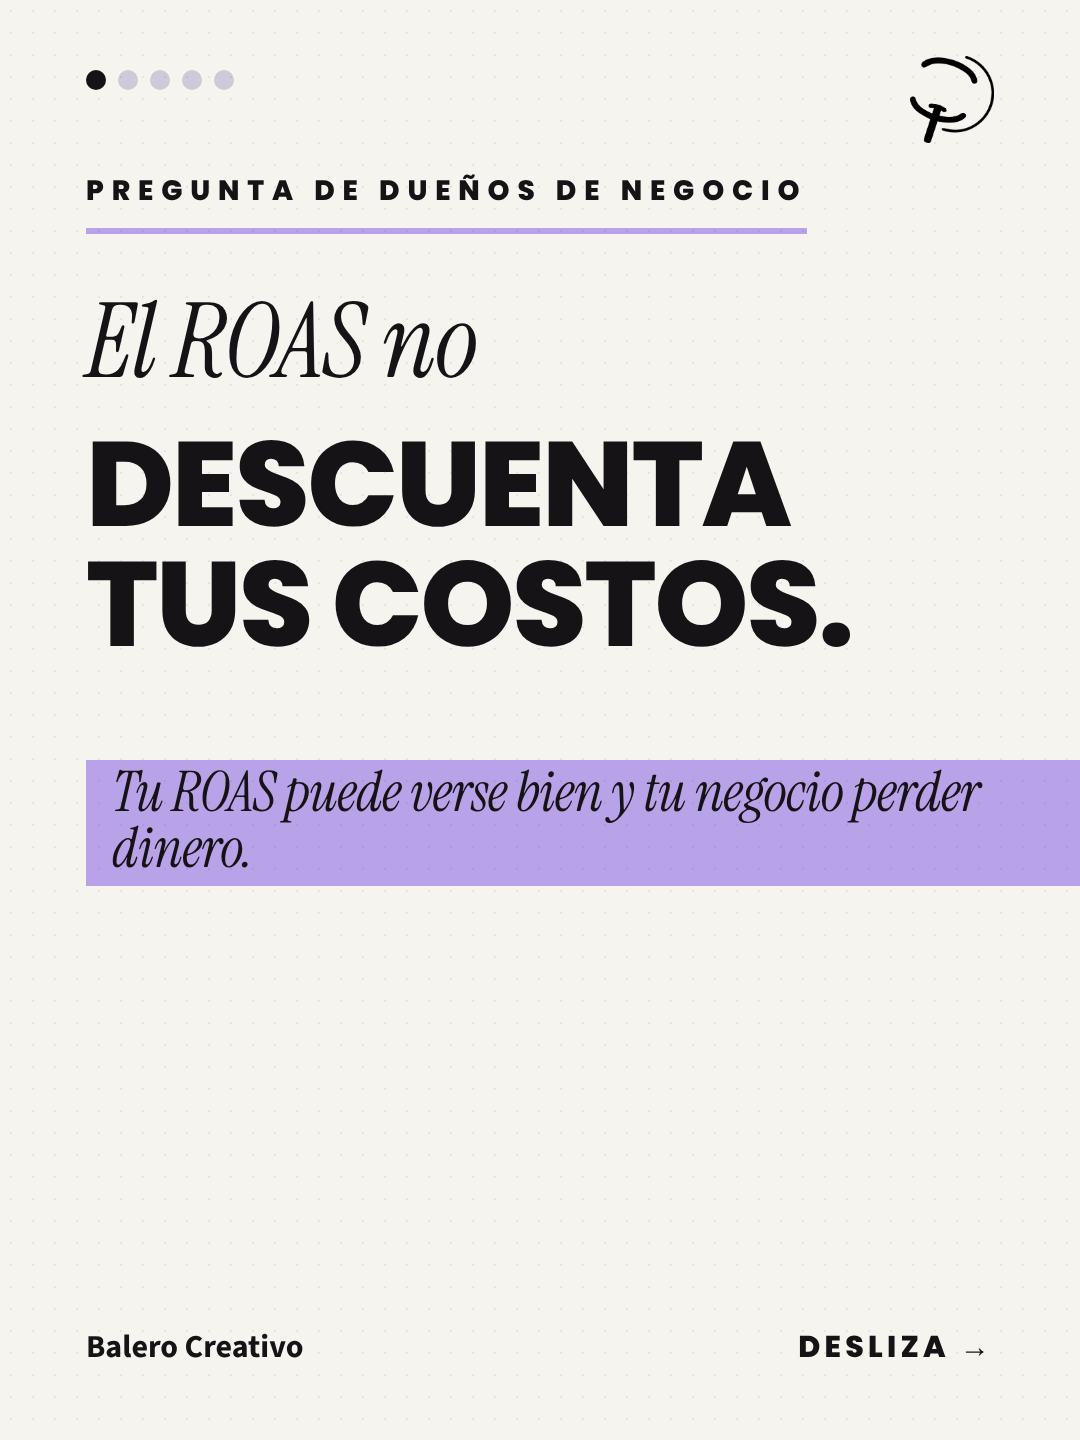
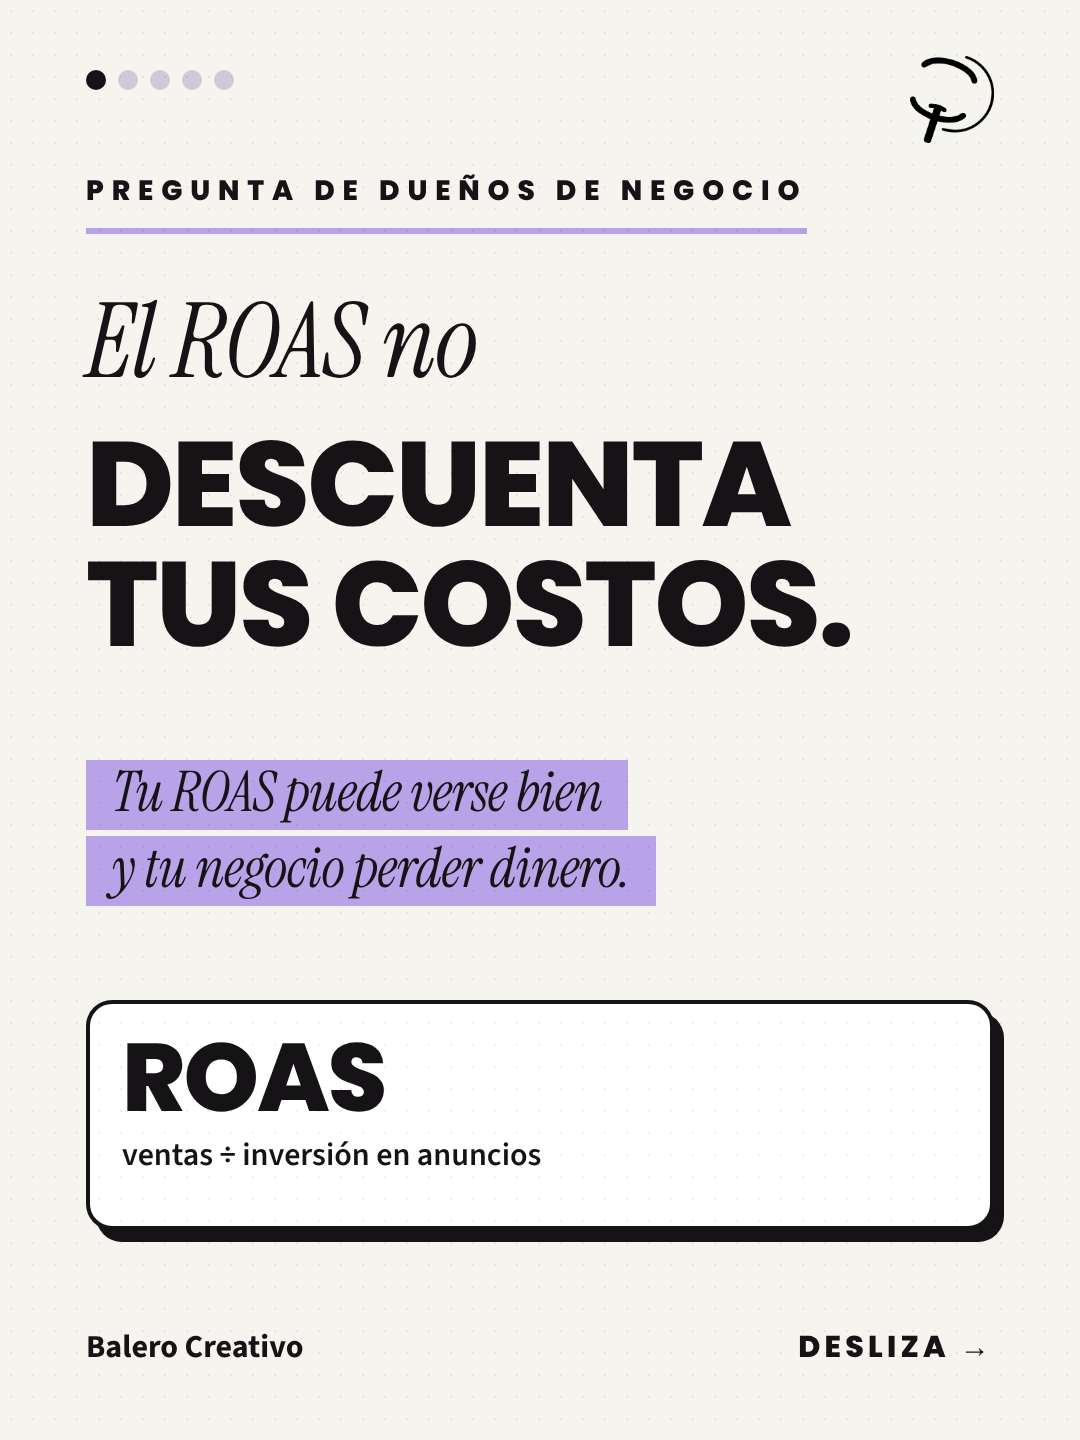
ROAS: portada con subtítulo dentro del margen y tarjeta de la fórmula
Claude-Session: https://claude.ai/code/session_01Bq7ZC7FDz5LcdZBgNXTuBm

Changed region(s): [[0.0611, 0.5, 1.0, 0.6562], [0.0611, 0.6875, 0.4889, 0.8438], [0.0917, 0.6875, 0.9472, 0.875]]

diff --git a/clientes/balero/diseno/2026-11/estilo-editorial/semana/roasig.html b/clientes/balero/diseno/2026-11/estilo-editorial/semana/roasig.html
@@ -60,4 +60,4 @@ body{background:#888}
 .meter{position:absolute;left:86px;right:86px;background:#fff;border:4px solid #151316;border-radius:26px;box-shadow:10px 12px 0 #151316;overflow:hidden}
 
 .bigy{position:absolute;left:86px;font:800 330px/.9 Poppins;background:#FFD23F;padding:10px 30px 24px;letter-spacing:-.04em}
-</style></head><body><div class="s" id="s1"><div class="dots"><i style="background:#151316"></i><i style="background:#cfc9dc"></i><i style="background:#cfc9dc"></i><i style="background:#cfc9dc"></i><i style="background:#cfc9dc"></i></div><img class="logo" src="/home/user/balero/.claude/skills/balero-imagenes/assets/logo-balero.png"><div class="kick" style="top:170px">Pregunta de dueños de negocio</div><div class="serif" style="position:absolute;left:86px;top:290px;font-size:104px;line-height:1">El ROAS no</div><div class="big" style="top:420px;font-size:120px;line-height:1.08">DESCUENTA</div><div class="big" style="top:540px;font-size:120px;line-height:1.08">TUS COSTOS.</div><div class="serif" style="position:absolute;left:86px;top:760px;font-size:56px;line-height:1"><span class="hl">Tu ROAS puede verse bien y tu negocio perder dinero.</span></div><div class="foot"><span>Balero Creativo</span></div><div style="position:absolute;right:86px;bottom:70px;font:800 30px Poppins;letter-spacing:.14em">DESLIZA →</div></div><div class="s" id="s2"><div class="dots"><i style="background:#cfc9dc"></i><i style="background:#151316"></i><i style="background:#cfc9dc"></i><i style="background:#cfc9dc"></i><i style="background:#cfc9dc"></i></div><img class="logo" src="/home/user/balero/.claude/skills/balero-imagenes/assets/logo-balero.png"><div class="chip">QUÉ MIDE</div><div class="t" style="top:290px;font-size:100px">Lo que regresa<br>por cada <span class="serif" style="font-size:1.25em;text-transform:none;font-weight:400;background:#FFD23F;padding:0 18px">peso.</span></div><div class="body" style="top:610px;width:880px">El ROAS es lo que vendes dividido entre lo que inviertes en anuncios.</div><div class="stat" style="left:86px;top:800px;width:420px;height:300px;background:#fff"><b style="font-size:96px">$1</b><span>invertido en anuncios</span></div><div class="stat" style="left:574px;top:800px;width:420px;height:300px;background:#B9A3E8"><b style="font-size:96px">$5</b><span>en ventas</span></div><div class="serif" style="position:absolute;left:86px;top:1180px;font-size:70px;line-height:1">Eso es un ROAS de 5.</div><div class="foot"><span>Balero Creativo</span></div><div style="position:absolute;right:86px;bottom:70px;font:700 30px 'Source Sans Pro';color:#3d3a42;text-align:right;max-width:640px">Ejemplo ilustrativo</div></div><div class="s" id="s3"><div class="dots"><i style="background:#cfc9dc"></i><i style="background:#cfc9dc"></i><i style="background:#151316"></i><i style="background:#cfc9dc"></i><i style="background:#cfc9dc"></i></div><img class="logo" src="/home/user/balero/.claude/skills/balero-imagenes/assets/logo-balero.png"><div class="chip">LO QUE NO INCLUYE</div><div class="t" style="top:290px;font-size:100px">El ROAS no ve<br>tus <span class="serif" style="font-size:1.25em;text-transform:none;font-weight:400;background:#FFD23F;padding:0 18px">costos.</span></div><div class="body" style="top:610px;width:880px">No descuenta el producto, el envío, las comisiones ni tu tiempo.</div><div class="cmp bad" style="top:815px;height:190px"><div class="m">✗</div><div><small>NO INCLUYE</small>Producto, envío, comisiones y tu tiempo</div></div><div class="cmp good" style="top:1025px;height:190px"><div class="m">✓</div><div><small>SÍ TE DICE</small>Cuánto regresa cada peso en anuncios</div></div><div class="foot"><span>Balero Creativo</span></div></div><div class="s" id="s4"><div class="dots"><i style="background:#cfc9dc"></i><i style="background:#cfc9dc"></i><i style="background:#cfc9dc"></i><i style="background:#151316"></i><i style="background:#cfc9dc"></i></div><img class="logo" src="/home/user/balero/.claude/skills/balero-imagenes/assets/logo-balero.png"><div class="chip">LO QUE SÍ DICE</div><div class="t" style="top:290px;font-size:100px">Pagar el anuncio<br>no es <span class="serif" style="font-size:1.25em;text-transform:none;font-weight:400;background:#FFD23F;padding:0 18px">ganar.</span></div><div class="body" style="top:610px;width:880px">El ROAS compara campañas entre sí. Para saber si ganas, calcula cuánto te queda por venta.</div><div class="serif" style="position:absolute;left:86px;top:1150px;font-size:56px;line-height:1">Calcula tu margen antes de subir el presupuesto.</div><div class="foot"><span>Balero Creativo</span></div></div><div class="s" id="s5"><div class="dots"><i style="background:#cfc9dc"></i><i style="background:#cfc9dc"></i><i style="background:#cfc9dc"></i><i style="background:#cfc9dc"></i><i style="background:#151316"></i></div><img class="logo" src="/home/user/balero/.claude/skills/balero-imagenes/assets/logo-balero.png"><div class="serif" style="position:absolute;left:86px;top:280px;font-size:96px;line-height:1">¿Cuánto te queda</div><div class="big" style="top:400px;font-size:100px;line-height:1.08">DESPUÉS DE PAGAR</div><div class="serif" style="position:absolute;left:86px;top:560px;font-size:96px;line-height:1"><span class="hl">el anuncio?</span></div><div class="tape" style="top:800px;font-family:Poppins;font-weight:800;font-size:36px">Diagnóstico gratis de 15 minutos</div><div class="arrow" style="top:800px;transform:translateY(22px)">→</div><div class="body" style="top:1000px;width:880px">Escríbenos por mensaje directo.</div><div class="foot"><span>Balero Creativo</span></div></div></body></html>
+</style></head><body><div class="s" id="s1"><div class="dots"><i style="background:#151316"></i><i style="background:#cfc9dc"></i><i style="background:#cfc9dc"></i><i style="background:#cfc9dc"></i><i style="background:#cfc9dc"></i></div><img class="logo" src="/home/user/balero/.claude/skills/balero-imagenes/assets/logo-balero.png"><div class="kick" style="top:170px">Pregunta de dueños de negocio</div><div class="serif" style="position:absolute;left:86px;top:290px;font-size:104px;line-height:1">El ROAS no</div><div class="big" style="top:420px;font-size:120px;line-height:1.08">DESCUENTA</div><div class="big" style="top:540px;font-size:120px;line-height:1.08">TUS COSTOS.</div><div class="serif" style="position:absolute;left:86px;top:760px;font-size:56px;line-height:1"><span class="hl">Tu ROAS puede verse bien</span></div><div class="serif" style="position:absolute;left:86px;top:836px;font-size:56px;line-height:1"><span class="hl">y tu negocio perder dinero.</span></div><div class="stat" style="left:86px;top:1000px;width:908px;height:230px;background:#fff"><b style="font-size:96px">ROAS</b><span>ventas ÷ inversión en anuncios</span></div><div class="foot"><span>Balero Creativo</span></div><div style="position:absolute;right:86px;bottom:70px;font:800 30px Poppins;letter-spacing:.14em">DESLIZA →</div></div><div class="s" id="s2"><div class="dots"><i style="background:#cfc9dc"></i><i style="background:#151316"></i><i style="background:#cfc9dc"></i><i style="background:#cfc9dc"></i><i style="background:#cfc9dc"></i></div><img class="logo" src="/home/user/balero/.claude/skills/balero-imagenes/assets/logo-balero.png"><div class="chip">QUÉ MIDE</div><div class="t" style="top:290px;font-size:100px">Lo que regresa<br>por cada <span class="serif" style="font-size:1.25em;text-transform:none;font-weight:400;background:#FFD23F;padding:0 18px">peso.</span></div><div class="body" style="top:610px;width:880px">El ROAS es lo que vendes dividido entre lo que inviertes en anuncios.</div><div class="stat" style="left:86px;top:800px;width:420px;height:300px;background:#fff"><b style="font-size:96px">$1</b><span>invertido en anuncios</span></div><div class="stat" style="left:574px;top:800px;width:420px;height:300px;background:#B9A3E8"><b style="font-size:96px">$5</b><span>en ventas</span></div><div class="serif" style="position:absolute;left:86px;top:1180px;font-size:70px;line-height:1">Eso es un ROAS de 5.</div><div class="foot"><span>Balero Creativo</span></div><div style="position:absolute;right:86px;bottom:70px;font:700 30px 'Source Sans Pro';color:#3d3a42;text-align:right;max-width:640px">Ejemplo ilustrativo</div></div><div class="s" id="s3"><div class="dots"><i style="background:#cfc9dc"></i><i style="background:#cfc9dc"></i><i style="background:#151316"></i><i style="background:#cfc9dc"></i><i style="background:#cfc9dc"></i></div><img class="logo" src="/home/user/balero/.claude/skills/balero-imagenes/assets/logo-balero.png"><div class="chip">LO QUE NO INCLUYE</div><div class="t" style="top:290px;font-size:100px">El ROAS no ve<br>tus <span class="serif" style="font-size:1.25em;text-transform:none;font-weight:400;background:#FFD23F;padding:0 18px">costos.</span></div><div class="body" style="top:610px;width:880px">No descuenta el producto, el envío, las comisiones ni tu tiempo.</div><div class="cmp bad" style="top:815px;height:190px"><div class="m">✗</div><div><small>NO INCLUYE</small>Producto, envío, comisiones y tu tiempo</div></div><div class="cmp good" style="top:1025px;height:190px"><div class="m">✓</div><div><small>SÍ TE DICE</small>Cuánto regresa cada peso en anuncios</div></div><div class="foot"><span>Balero Creativo</span></div></div><div class="s" id="s4"><div class="dots"><i style="background:#cfc9dc"></i><i style="background:#cfc9dc"></i><i style="background:#cfc9dc"></i><i style="background:#151316"></i><i style="background:#cfc9dc"></i></div><img class="logo" src="/home/user/balero/.claude/skills/balero-imagenes/assets/logo-balero.png"><div class="chip">LO QUE SÍ DICE</div><div class="t" style="top:290px;font-size:100px">Pagar el anuncio<br>no es <span class="serif" style="font-size:1.25em;text-transform:none;font-weight:400;background:#FFD23F;padding:0 18px">ganar.</span></div><div class="body" style="top:610px;width:880px">El ROAS compara campañas entre sí. Para saber si ganas, calcula cuánto te queda por venta.</div><div class="serif" style="position:absolute;left:86px;top:1150px;font-size:56px;line-height:1">Calcula tu margen antes de subir el presupuesto.</div><div class="foot"><span>Balero Creativo</span></div></div><div class="s" id="s5"><div class="dots"><i style="background:#cfc9dc"></i><i style="background:#cfc9dc"></i><i style="background:#cfc9dc"></i><i style="background:#cfc9dc"></i><i style="background:#151316"></i></div><img class="logo" src="/home/user/balero/.claude/skills/balero-imagenes/assets/logo-balero.png"><div class="serif" style="position:absolute;left:86px;top:280px;font-size:96px;line-height:1">¿Cuánto te queda</div><div class="big" style="top:400px;font-size:100px;line-height:1.08">DESPUÉS DE PAGAR</div><div class="serif" style="position:absolute;left:86px;top:560px;font-size:96px;line-height:1"><span class="hl">el anuncio?</span></div><div class="tape" style="top:800px;font-family:Poppins;font-weight:800;font-size:36px">Diagnóstico gratis de 15 minutos</div><div class="arrow" style="top:800px;transform:translateY(22px)">→</div><div class="body" style="top:1000px;width:880px">Escríbenos por mensaje directo.</div><div class="foot"><span>Balero Creativo</span></div></div></body></html>

diff --git a/clientes/balero/diseno/2026-11/semana-09/roas-ig/roasig.html b/clientes/balero/diseno/2026-11/semana-09/roas-ig/roasig.html
@@ -60,4 +60,4 @@ body{background:#888}
 .meter{position:absolute;left:86px;right:86px;background:#fff;border:4px solid #151316;border-radius:26px;box-shadow:10px 12px 0 #151316;overflow:hidden}
 
 .bigy{position:absolute;left:86px;font:800 330px/.9 Poppins;background:#FFD23F;padding:10px 30px 24px;letter-spacing:-.04em}
-</style></head><body><div class="s" id="s1"><div class="dots"><i style="background:#151316"></i><i style="background:#cfc9dc"></i><i style="background:#cfc9dc"></i><i style="background:#cfc9dc"></i><i style="background:#cfc9dc"></i></div><img class="logo" src="/home/user/balero/.claude/skills/balero-imagenes/assets/logo-balero.png"><div class="kick" style="top:170px">Pregunta de dueños de negocio</div><div class="serif" style="position:absolute;left:86px;top:290px;font-size:104px;line-height:1">El ROAS no</div><div class="big" style="top:420px;font-size:120px;line-height:1.08">DESCUENTA</div><div class="big" style="top:540px;font-size:120px;line-height:1.08">TUS COSTOS.</div><div class="serif" style="position:absolute;left:86px;top:760px;font-size:56px;line-height:1"><span class="hl">Tu ROAS puede verse bien y tu negocio perder dinero.</span></div><div class="foot"><span>Balero Creativo</span></div><div style="position:absolute;right:86px;bottom:70px;font:800 30px Poppins;letter-spacing:.14em">DESLIZA →</div></div><div class="s" id="s2"><div class="dots"><i style="background:#cfc9dc"></i><i style="background:#151316"></i><i style="background:#cfc9dc"></i><i style="background:#cfc9dc"></i><i style="background:#cfc9dc"></i></div><img class="logo" src="/home/user/balero/.claude/skills/balero-imagenes/assets/logo-balero.png"><div class="chip">QUÉ MIDE</div><div class="t" style="top:290px;font-size:100px">Lo que regresa<br>por cada <span class="serif" style="font-size:1.25em;text-transform:none;font-weight:400;background:#FFD23F;padding:0 18px">peso.</span></div><div class="body" style="top:610px;width:880px">El ROAS es lo que vendes dividido entre lo que inviertes en anuncios.</div><div class="stat" style="left:86px;top:800px;width:420px;height:300px;background:#fff"><b style="font-size:96px">$1</b><span>invertido en anuncios</span></div><div class="stat" style="left:574px;top:800px;width:420px;height:300px;background:#B9A3E8"><b style="font-size:96px">$5</b><span>en ventas</span></div><div class="serif" style="position:absolute;left:86px;top:1180px;font-size:70px;line-height:1">Eso es un ROAS de 5.</div><div class="foot"><span>Balero Creativo</span></div><div style="position:absolute;right:86px;bottom:70px;font:700 30px 'Source Sans Pro';color:#3d3a42;text-align:right;max-width:640px">Ejemplo ilustrativo</div></div><div class="s" id="s3"><div class="dots"><i style="background:#cfc9dc"></i><i style="background:#cfc9dc"></i><i style="background:#151316"></i><i style="background:#cfc9dc"></i><i style="background:#cfc9dc"></i></div><img class="logo" src="/home/user/balero/.claude/skills/balero-imagenes/assets/logo-balero.png"><div class="chip">LO QUE NO INCLUYE</div><div class="t" style="top:290px;font-size:100px">El ROAS no ve<br>tus <span class="serif" style="font-size:1.25em;text-transform:none;font-weight:400;background:#FFD23F;padding:0 18px">costos.</span></div><div class="body" style="top:610px;width:880px">No descuenta el producto, el envío, las comisiones ni tu tiempo.</div><div class="cmp bad" style="top:815px;height:190px"><div class="m">✗</div><div><small>NO INCLUYE</small>Producto, envío, comisiones y tu tiempo</div></div><div class="cmp good" style="top:1025px;height:190px"><div class="m">✓</div><div><small>SÍ TE DICE</small>Cuánto regresa cada peso en anuncios</div></div><div class="foot"><span>Balero Creativo</span></div></div><div class="s" id="s4"><div class="dots"><i style="background:#cfc9dc"></i><i style="background:#cfc9dc"></i><i style="background:#cfc9dc"></i><i style="background:#151316"></i><i style="background:#cfc9dc"></i></div><img class="logo" src="/home/user/balero/.claude/skills/balero-imagenes/assets/logo-balero.png"><div class="chip">LO QUE SÍ DICE</div><div class="t" style="top:290px;font-size:100px">Pagar el anuncio<br>no es <span class="serif" style="font-size:1.25em;text-transform:none;font-weight:400;background:#FFD23F;padding:0 18px">ganar.</span></div><div class="body" style="top:610px;width:880px">El ROAS compara campañas entre sí. Para saber si ganas, calcula cuánto te queda por venta.</div><div class="serif" style="position:absolute;left:86px;top:1150px;font-size:56px;line-height:1">Calcula tu margen antes de subir el presupuesto.</div><div class="foot"><span>Balero Creativo</span></div></div><div class="s" id="s5"><div class="dots"><i style="background:#cfc9dc"></i><i style="background:#cfc9dc"></i><i style="background:#cfc9dc"></i><i style="background:#cfc9dc"></i><i style="background:#151316"></i></div><img class="logo" src="/home/user/balero/.claude/skills/balero-imagenes/assets/logo-balero.png"><div class="serif" style="position:absolute;left:86px;top:280px;font-size:96px;line-height:1">¿Cuánto te queda</div><div class="big" style="top:400px;font-size:100px;line-height:1.08">DESPUÉS DE PAGAR</div><div class="serif" style="position:absolute;left:86px;top:560px;font-size:96px;line-height:1"><span class="hl">el anuncio?</span></div><div class="tape" style="top:800px;font-family:Poppins;font-weight:800;font-size:36px">Diagnóstico gratis de 15 minutos</div><div class="arrow" style="top:800px;transform:translateY(22px)">→</div><div class="body" style="top:1000px;width:880px">Escríbenos por mensaje directo.</div><div class="foot"><span>Balero Creativo</span></div></div></body></html>
+</style></head><body><div class="s" id="s1"><div class="dots"><i style="background:#151316"></i><i style="background:#cfc9dc"></i><i style="background:#cfc9dc"></i><i style="background:#cfc9dc"></i><i style="background:#cfc9dc"></i></div><img class="logo" src="/home/user/balero/.claude/skills/balero-imagenes/assets/logo-balero.png"><div class="kick" style="top:170px">Pregunta de dueños de negocio</div><div class="serif" style="position:absolute;left:86px;top:290px;font-size:104px;line-height:1">El ROAS no</div><div class="big" style="top:420px;font-size:120px;line-height:1.08">DESCUENTA</div><div class="big" style="top:540px;font-size:120px;line-height:1.08">TUS COSTOS.</div><div class="serif" style="position:absolute;left:86px;top:760px;font-size:56px;line-height:1"><span class="hl">Tu ROAS puede verse bien</span></div><div class="serif" style="position:absolute;left:86px;top:836px;font-size:56px;line-height:1"><span class="hl">y tu negocio perder dinero.</span></div><div class="stat" style="left:86px;top:1000px;width:908px;height:230px;background:#fff"><b style="font-size:96px">ROAS</b><span>ventas ÷ inversión en anuncios</span></div><div class="foot"><span>Balero Creativo</span></div><div style="position:absolute;right:86px;bottom:70px;font:800 30px Poppins;letter-spacing:.14em">DESLIZA →</div></div><div class="s" id="s2"><div class="dots"><i style="background:#cfc9dc"></i><i style="background:#151316"></i><i style="background:#cfc9dc"></i><i style="background:#cfc9dc"></i><i style="background:#cfc9dc"></i></div><img class="logo" src="/home/user/balero/.claude/skills/balero-imagenes/assets/logo-balero.png"><div class="chip">QUÉ MIDE</div><div class="t" style="top:290px;font-size:100px">Lo que regresa<br>por cada <span class="serif" style="font-size:1.25em;text-transform:none;font-weight:400;background:#FFD23F;padding:0 18px">peso.</span></div><div class="body" style="top:610px;width:880px">El ROAS es lo que vendes dividido entre lo que inviertes en anuncios.</div><div class="stat" style="left:86px;top:800px;width:420px;height:300px;background:#fff"><b style="font-size:96px">$1</b><span>invertido en anuncios</span></div><div class="stat" style="left:574px;top:800px;width:420px;height:300px;background:#B9A3E8"><b style="font-size:96px">$5</b><span>en ventas</span></div><div class="serif" style="position:absolute;left:86px;top:1180px;font-size:70px;line-height:1">Eso es un ROAS de 5.</div><div class="foot"><span>Balero Creativo</span></div><div style="position:absolute;right:86px;bottom:70px;font:700 30px 'Source Sans Pro';color:#3d3a42;text-align:right;max-width:640px">Ejemplo ilustrativo</div></div><div class="s" id="s3"><div class="dots"><i style="background:#cfc9dc"></i><i style="background:#cfc9dc"></i><i style="background:#151316"></i><i style="background:#cfc9dc"></i><i style="background:#cfc9dc"></i></div><img class="logo" src="/home/user/balero/.claude/skills/balero-imagenes/assets/logo-balero.png"><div class="chip">LO QUE NO INCLUYE</div><div class="t" style="top:290px;font-size:100px">El ROAS no ve<br>tus <span class="serif" style="font-size:1.25em;text-transform:none;font-weight:400;background:#FFD23F;padding:0 18px">costos.</span></div><div class="body" style="top:610px;width:880px">No descuenta el producto, el envío, las comisiones ni tu tiempo.</div><div class="cmp bad" style="top:815px;height:190px"><div class="m">✗</div><div><small>NO INCLUYE</small>Producto, envío, comisiones y tu tiempo</div></div><div class="cmp good" style="top:1025px;height:190px"><div class="m">✓</div><div><small>SÍ TE DICE</small>Cuánto regresa cada peso en anuncios</div></div><div class="foot"><span>Balero Creativo</span></div></div><div class="s" id="s4"><div class="dots"><i style="background:#cfc9dc"></i><i style="background:#cfc9dc"></i><i style="background:#cfc9dc"></i><i style="background:#151316"></i><i style="background:#cfc9dc"></i></div><img class="logo" src="/home/user/balero/.claude/skills/balero-imagenes/assets/logo-balero.png"><div class="chip">LO QUE SÍ DICE</div><div class="t" style="top:290px;font-size:100px">Pagar el anuncio<br>no es <span class="serif" style="font-size:1.25em;text-transform:none;font-weight:400;background:#FFD23F;padding:0 18px">ganar.</span></div><div class="body" style="top:610px;width:880px">El ROAS compara campañas entre sí. Para saber si ganas, calcula cuánto te queda por venta.</div><div class="serif" style="position:absolute;left:86px;top:1150px;font-size:56px;line-height:1">Calcula tu margen antes de subir el presupuesto.</div><div class="foot"><span>Balero Creativo</span></div></div><div class="s" id="s5"><div class="dots"><i style="background:#cfc9dc"></i><i style="background:#cfc9dc"></i><i style="background:#cfc9dc"></i><i style="background:#cfc9dc"></i><i style="background:#151316"></i></div><img class="logo" src="/home/user/balero/.claude/skills/balero-imagenes/assets/logo-balero.png"><div class="serif" style="position:absolute;left:86px;top:280px;font-size:96px;line-height:1">¿Cuánto te queda</div><div class="big" style="top:400px;font-size:100px;line-height:1.08">DESPUÉS DE PAGAR</div><div class="serif" style="position:absolute;left:86px;top:560px;font-size:96px;line-height:1"><span class="hl">el anuncio?</span></div><div class="tape" style="top:800px;font-family:Poppins;font-weight:800;font-size:36px">Diagnóstico gratis de 15 minutos</div><div class="arrow" style="top:800px;transform:translateY(22px)">→</div><div class="body" style="top:1000px;width:880px">Escríbenos por mensaje directo.</div><div class="foot"><span>Balero Creativo</span></div></div></body></html>

diff --git a/clientes/balero/diseno/2026-11/estilo-editorial/semana/defs.py b/clientes/balero/diseno/2026-11/estilo-editorial/semana/defs.py
@@ -150,7 +150,7 @@ muse=[
 ]
 # ---------- ROAS APROBADO (guion 9 nov) ----------
 roasig=[
- (kick('Pregunta de dueños de negocio')+serif('El ROAS no',290,104)+big('DESCUENTA',420,120)+big('TUS COSTOS.',540,120)+serif('<span class="hl">Tu ROAS puede verse bien y tu negocio perder dinero.</span>',760,56), FD),
+ (kick('Pregunta de dueños de negocio')+serif('El ROAS no',290,104)+big('DESCUENTA',420,120)+big('TUS COSTOS.',540,120)+serif('<span class="hl">Tu ROAS puede verse bien</span>',760,56)+serif('<span class="hl">y tu negocio perder dinero.</span>',836,56)+stat(86,1000,908,230,'ROAS','ventas ÷ inversión en anuncios',fs=96), FD),
  (chip('QUÉ MIDE')+title('Lo que regresa','por cada '+hl('peso.'))+body('El ROAS es lo que vendes dividido entre lo que inviertes en anuncios.')+
    stat(86,800,420,300,'$1','invertido en anuncios',fs=96)+stat(574,800,420,300,'$5','en ventas','#B9A3E8',fs=96)+serif('Eso es un ROAS de 5.',1180,70), foot('Ejemplo ilustrativo')),
  (chip('LO QUE NO INCLUYE')+title('El ROAS no ve','tus '+hl('costos.'))+body('No descuenta el producto, el envío, las comisiones ni tu tiempo.')+
